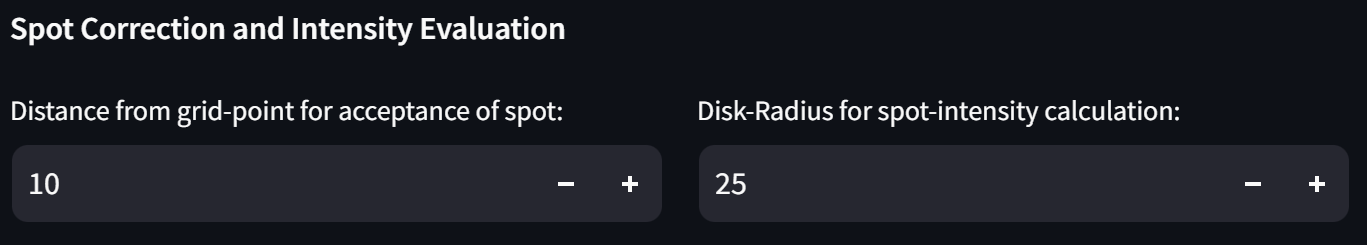
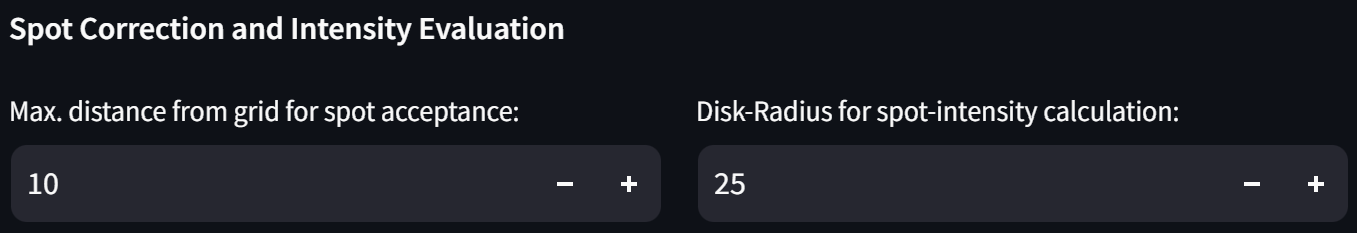
added section on halo detection to user guide

diff --git a/userguide_app.md b/userguide_app.md
@@ -175,7 +175,7 @@ Similarly to the initial detection of spots, detected lines should have a regula
 
 This section currently contains only two settings:
 
-- Maximum distance from grid-line intersections for acceptance of a spot
+- Maximum distance from gridline intersections for acceptance of a spot
 - Disk-Radius for spot-intensity calculations
 
 The maximum distance for spot acceptance is relevant for spot correction, as any spots further away than the given value will be considered artifacts and therefore removed. For intersections with no spots closer than the acceptance criterium a spot will be defined at the point of intersection. Spots defined in this manner are considered "Backfilled".
@@ -183,6 +183,18 @@ The maximum distance for spot acceptance is relevant for spot correction, as any
 Ideally all detected spots would have the same radius. Due to noise within the recorded image this is however not the case. To keep the area consistent for evaluation of the average spot-intensity a disk of defined radius, input by the user, is used.
 
 #### Halo-Detection
+
+![Advanced Settings: Halo-Detection](assets/userguide/adv_settings_halo-detection.png)
+
+Halo-detection is somewhat analogous to the initial detection of spots: A hough-transform is used to detect circles in a modified version of the image. This time however, not the edges of spots but rather the skeleton of halos is detected. The reason for this is, that a halo always has an inner and an outer edge which can lead to ambiguitiy in the determination of the radius. Therefore the skeleton of the halo is used. 
+
+In order to create a skeleton of the halos, first a mask of the image only containing the halos is created using otsu's method. The initial mask contains alot of noise that needs to be removed to yield a good skeletonized image. Part of the denoising process involves removing objects smaller than a specified size. This size can be set with the ___Minimum Object Size___ Setting. The mask is then skeletonized and dilated to prepare for circle detection.
+
+As the circle detection step is analogous to initial spot detection, the settings for the tested radii, distance between halos and the threshold are also similar.
+
+The presence of an antimicrobial halo around a spot implies enough activity of the fraction eluted to the spot to kill off the reporter strain in a specific radius around the spot. Therefore lower or no signal is observed at the center of the spot. This is why evaluating the spot-intensity is not advisable in these cases. Instead the size (here, the radius) of the halo may be used as a measure of activity of the compound. Since the radius of a halo and the intensity of the spot are two incompatible measurements both correlating with activity of the eluted fraction, they need to be scaled to each other to achieve a larger dynamic range of the performed assay. Currently this is done through a ___Scaling Factor___ to yield qualitative/semi-quantitative results. 
+
+The values that the halo-radii should be scaled to can be selected. It is recommended to scale to the normalized data. If however scaling to the raw spot-intensities or no scaling at all is desired, it can be selected accordingly.
 
 ## Data Merging and Manipulation
 
